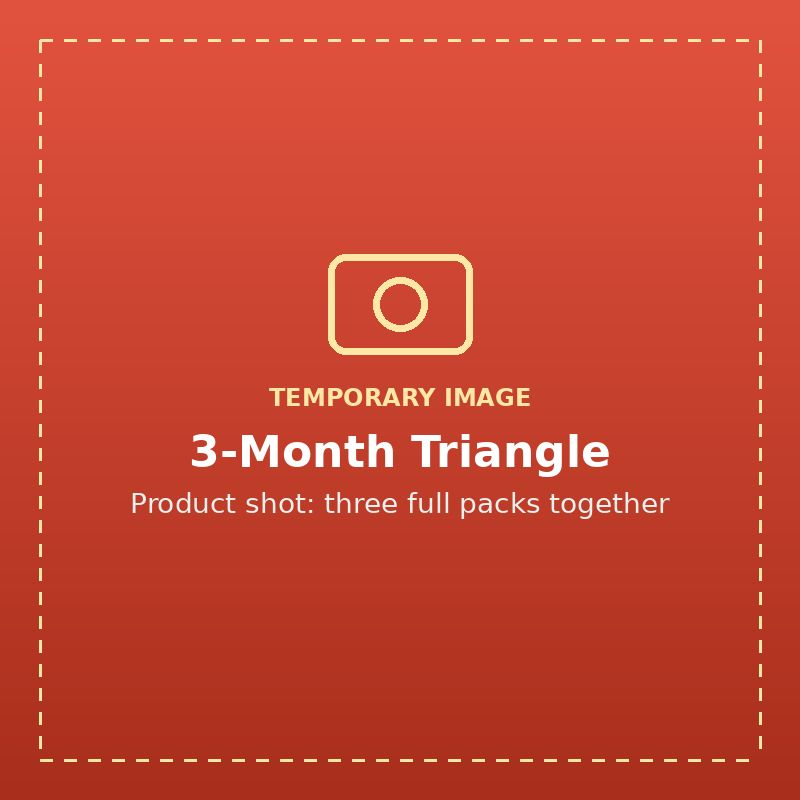
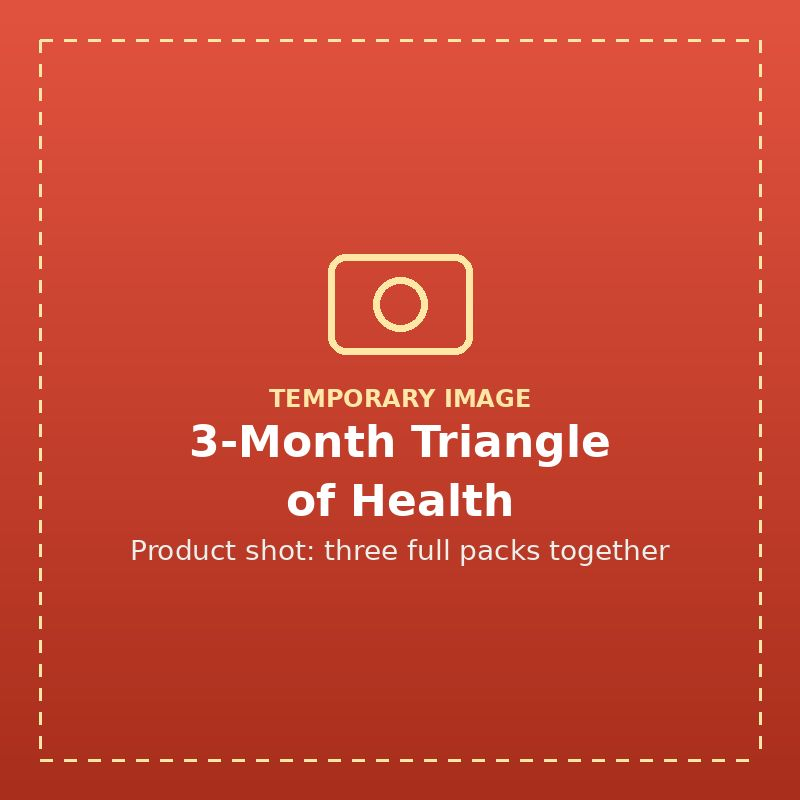
Shop: use 'Triangle of Health' everywhere
Claude-Session: https://claude.ai/code/session_019wCgcXdnSCs1jDWCcynMET

Changed region(s): [[0.1562, 0.4688, 0.8438, 0.7188], [0.625, 0.4688, 0.6562, 0.5]]

diff --git a/shop.html b/shop.html
@@ -460,7 +460,7 @@ form.co{display:grid;gap:12px}
   <div class="wrap">
     <div class="panel">
       <h2 class="up">Don't Take Our Word For It!</h2>
-      <p class="sub-c">Real routines from people taking the Triangle every day.</p>
+      <p class="sub-c">Real routines from people taking the Triangle of Health every day.</p>
       <div class="carousel" data-carousel>
         <button class="arrow prev" type="button" aria-label="Previous videos"><svg><use href="#i-left"/></svg></button>
         <div class="track">
@@ -484,13 +484,13 @@ form.co{display:grid;gap:12px}
 <div class="offers">
   <div class="wrap ogrid">
     <div class="otile t1">
-      <h3>New to the Triangle? Try all three steps for 7 days and see how the routine fits your day.</h3>
+      <h3>New to the Triangle of Health? Try all three steps for 7 days and see how the routine fits your day.</h3>
       <button class="btn btn-red btn-sm" type="button" data-add="trial">Get Trial Pack</button>
       <img src="images/shop/hero-products.webp" alt="" width="1163" height="513">
     </div>
     <div class="otile t2">
       <span class="badge"><span><b>FREE</b>CONSULT</span></span>
-      <h3>Stock up on 3 months of the Triangle and get a free 15-minute consult with Dr. Rullan.</h3>
+      <h3>Stock up on 3 months of the Triangle of Health and get a free 15-minute consult with Dr. Rullan.</h3>
       <button class="btn btn-red btn-sm" type="button" data-add="m3">Get 3 Months + Free Consult</button>
       <img src="images/shop/hero-products.webp" alt="" width="1163" height="513">
     </div>
@@ -505,8 +505,8 @@ form.co{display:grid;gap:12px}
       <div class="sig"><b>Dr. Dylan Thor R. Rullan</b>Integrative &amp; Naturopathic Medicine</div>
     </div>
     <div>
-      <h2>You're in Good Hands. Here's Why Dr. Rullan Recommends the Triangle.</h2>
-      <p class="quote">"Many of my patients eat well and still come up short on key nutrients. The Triangle gives them a simple daily routine that covers the basics, so our consultations can focus on the root cause."</p>
+      <h2>You're in Good Hands. Here's Why Dr. Rullan Recommends the Triangle of Health.</h2>
+      <p class="quote">"Many of my patients eat well and still come up short on key nutrients. The Triangle of Health gives them a simple daily routine that covers the basics, so our consultations can focus on the root cause."</p>
       <span class="draft">DRAFT QUOTE · for Dr. Rullan to approve</span>
       <div class="ilist">
         <div><span class="ring"><svg><use href="#i-sun"/></svg></span><span><h3>Antioxidant Morning</h3><p>Sunrise blends wild Alaskan blueberries and 21 more superfoods with 16 vitamins and nutrients.</p></span></div>
@@ -520,7 +520,7 @@ form.co{display:grid;gap:12px}
 <section class="science" id="science">
   <div class="wrap">
     <h2 class="up">Backed by Science. Built for Daily Life.</h2>
-    <p class="sub-c">Highlights from the Kyäni Science White Paper behind each corner of the Triangle.</p>
+    <p class="sub-c">Highlights from the Kyäni Science White Paper behind each corner of the Triangle of Health.</p>
     <div class="stats">
       <div class="stat"><b style="color:var(--red)">1998</b><span>Nobel Prize in Medicine for discovering the role of nitric oxide</span></div>
       <div class="stat"><b style="color:var(--yellow-ink)">16</b><span>vitamins and nutrients in Sunrise</span></div>
@@ -604,7 +604,7 @@ form.co{display:grid;gap:12px}
 
 <section id="how" style="padding-top:0">
   <div class="wrap">
-    <h2 class="up">How to Take the Triangle</h2>
+    <h2 class="up">How to Take the Triangle of Health</h2>
     <p class="sub-c">Under two minutes a day. Take Nitro first each time, then the next step.</p>
     <div class="rsteps">
       <div class="rstep"><span class="bar" style="background:#F2B630"></span><div class="time" style="color:var(--yellow-ink)">Morning</div><div class="clock">With breakfast</div><ol><li><b>1 mL Nitro Xtreme</b> under the tongue. Hold 20 seconds.</li><li><b>1 Sunrise pouch</b> alone or in a smoothie, juice or water.</li></ol></div>
@@ -625,7 +625,7 @@ form.co{display:grid;gap:12px}
     </div>
     <div id="faq">
       <h2>FAQs</h2>
-      <details class="acc"><summary>Can I take the Triangle with my medication?</summary><div class="acc-body">Check with your doctor first, especially if you take blood thinners, diabetes or blood-pressure medication, or are pregnant or breastfeeding. You can book a consultation with Dr. Rullan to review your medication.</div></details>
+      <details class="acc"><summary>Can I take the Triangle of Health with my medication?</summary><div class="acc-body">Check with your doctor first, especially if you take blood thinners, diabetes or blood-pressure medication, or are pregnant or breastfeeding. You can book a consultation with Dr. Rullan to review your medication.</div></details>
       <details class="acc"><summary>Why take Nitro before the other two?</summary><div class="acc-body">Nitro supports nitric oxide production, which helps with nutrient delivery. Taking it first prepares your body for Sunrise in the morning and Sunset in the evening.</div></details>
       <details class="acc"><summary>When will I notice a difference?</summary><div class="acc-body">Everyone is different. Nutritional support works best taken consistently, so we suggest at least one full month alongside a balanced diet and regular activity.</div></details>
       <details class="acc"><summary>How do I pay, and how is it delivered?</summary><div class="acc-body">Place your order here, then the clinic confirms stock, shipping fee and payment by message. We accept GCash, bank transfer and cash on delivery in selected areas.</div></details>
@@ -690,8 +690,8 @@ const SHOP = {
   shippingFee: 150,
   bundles: [
     { id:"trial", name:"7-Day Trial", incl:"7 Sunrise pouches · 21 Sunset softgels · Nitro Xtreme sample", price:1250, compare:1450, img:"images/shop/bundle-trial.jpg", tag:"" },
-    { id:"m1", name:"1-Month Triangle", incl:"30 Sunrise pouches · 90 Sunset softgels · 1 Nitro Xtreme (56 mL)", price:5450, compare:5950, img:"images/shop/bundle-1m.jpg", tag:"Most popular", note:"+ Free shipping" },
-    { id:"m3", name:"3-Month Triangle", incl:"3 × 1-Month Triangle packs", price:15450, compare:17850, img:"images/shop/bundle-3m.jpg", tag:"Free shipping!", note:"+ Free consult" }
+    { id:"m1", name:"1-Month Triangle of Health", incl:"30 Sunrise pouches · 90 Sunset softgels · 1 Nitro Xtreme (56 mL)", price:5450, compare:5950, img:"images/shop/bundle-1m.jpg", tag:"Most popular", note:"+ Free shipping" },
+    { id:"m3", name:"3-Month Triangle of Health", incl:"3 × 1-Month Triangle of Health packs", price:15450, compare:17850, img:"images/shop/bundle-3m.jpg", tag:"Free shipping!", note:"+ Free consult" }
   ],
   singles: [
     { id:"sunrise", name:"Sunrise", sub:"30 pouches", price:2650, color:"#F2B630", icon:"i-sun", ink:"#173D2D" },
@@ -700,11 +700,11 @@ const SHOP = {
   ],
   reviews: [
     { n:"Ana M.", c:"#2F7A55", p:"Triangle of Health", q:"Sunrise has become part of my breakfast. Easy to mix and it tastes good in a smoothie.", img:"images/shop/lifestyle-1.jpg" },
-    { n:"Ramon B.", c:"#D9412E", p:"1-Month Triangle", q:"Simple routine: morning, noon, night. Dr. Rullan explained exactly how to take it.", img:"images/shop/lifestyle-2.jpg" },
+    { n:"Ramon B.", c:"#D9412E", p:"1-Month Triangle of Health", q:"Simple routine: morning, noon, night. Dr. Rullan explained exactly how to take it.", img:"images/shop/lifestyle-2.jpg" },
     { n:"Joy T.", c:"#C08A10", p:"7-Day Trial", q:"Ordering was easy and the clinic followed up after my first week.", img:"images/shop/lifestyle-3.jpg" },
-    { n:"Mark D.", c:"#4A5550", p:"3-Month Triangle", q:"I take Nitro before my workouts. The whole family is on the Triangle now.", img:"images/shop/lifestyle-4.jpg" },
+    { n:"Mark D.", c:"#4A5550", p:"3-Month Triangle of Health", q:"I take Nitro before my workouts. The whole family is on the Triangle of Health now.", img:"images/shop/lifestyle-4.jpg" },
     { n:"Liza C.", c:"#2F7A55", p:"Sunset", q:"Three softgels with dinner is easy to remember. Nice to have omega-3s covered.", img:"images/shop/lifestyle-5.jpg" },
-    { n:"Paolo R.", c:"#D9412E", p:"1-Month Triangle", q:"Well packed and delivered on time. Clear instructions in the box.", img:"images/shop/lifestyle-6.jpg" }
+    { n:"Paolo R.", c:"#D9412E", p:"1-Month Triangle of Health", q:"Well packed and delivered on time. Clear instructions in the box.", img:"images/shop/lifestyle-6.jpg" }
   ]
 };
 
